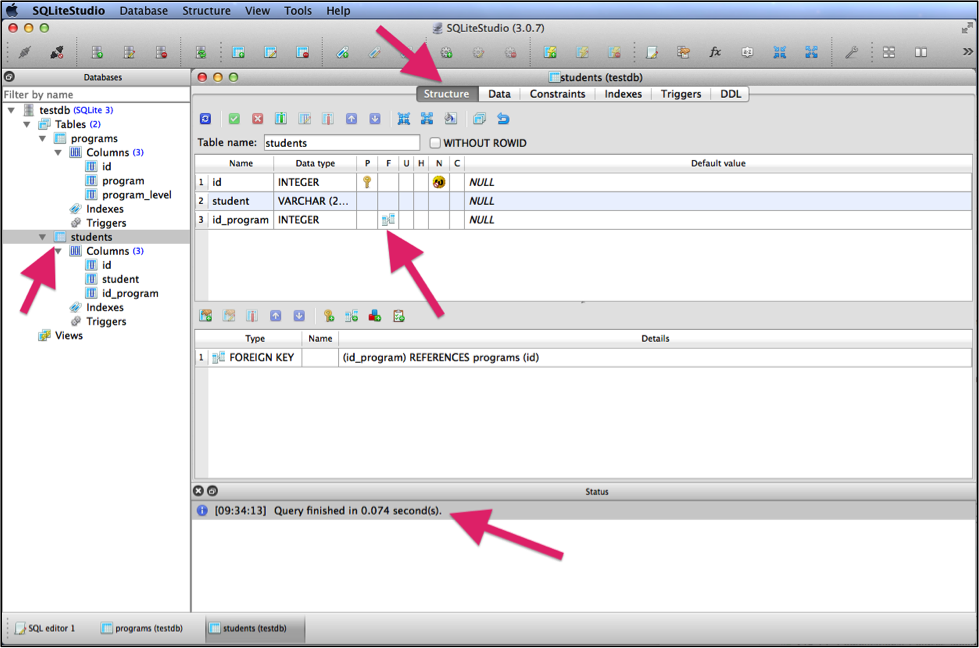
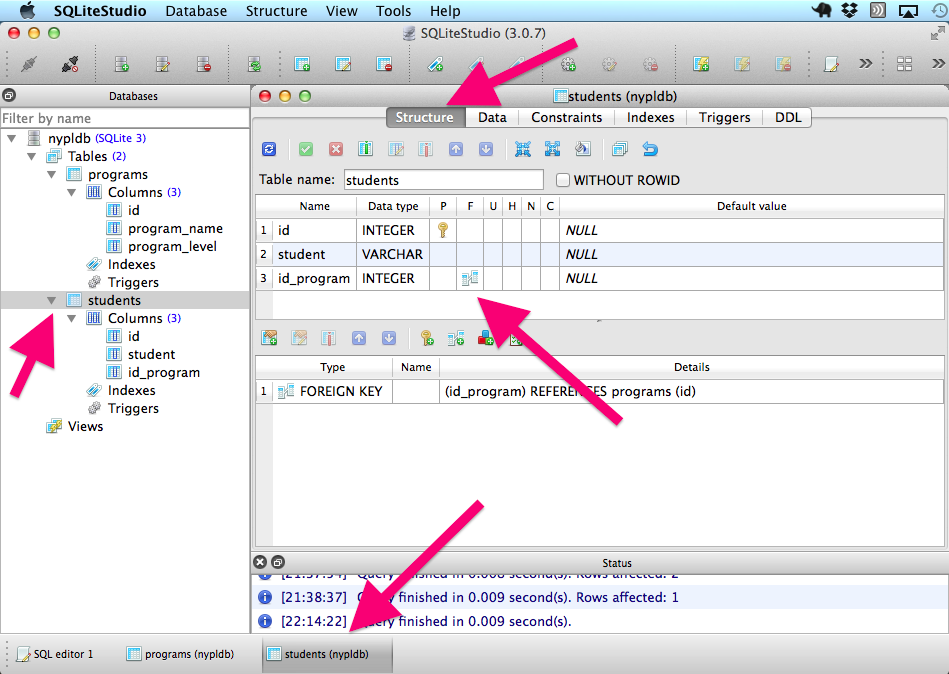
new images, cleaned up and tested sections 1-8

diff --git a/sections/0-dbintro.md b/sections/0-dbintro.md
@@ -8,12 +8,12 @@ A database is a collection of data that is structured to allow for manipulation.
 
 ###*What is SQL?*
 
-SQL (Structured Query Language) is a programming language for interacting with data in a relational database. There are different implementations of SQL—one implementation is [SQLite](https://www.sqlite.org/). Different implementations (such as [PostgreSQL](https://www.postgresql.org/) and [MySQL](https://www.mysql.com/)) have their own higher level specialized functions, but the all handle the same basic operations covered in this tutorial.
+SQL (Structured Query Language) is a programming language for interacting with data in a relational database. There are different implementations of SQL—one implementation is [SQLite](https://www.sqlite.org/). Different implementations (such as [PostgreSQL](https://www.postgresql.org/) and [MySQL](https://www.mysql.com/)) have their own higher level specialized functions, but the all handle the same basic operations covered today.
 
 We’re going to use SQLite in this session because getting set up requires less work. SQLite is a little different from other implementations of SQL because it operates on regular plain old local files and does not require a server connection, unlike PostgreSQL and MySQL. The databases you work with in SQLite exist in .db files that you can store anywhere on your computer.
 
 ###*How do I use SQL?*
 
-The database holds your data, but you need a client to see and interact with it. There are a couple options for SQLite GUI database mangers--for the first part of this session we will be suing [SQLiteStudio](http://sqlitestudio.pl/). SQLite also has a [command-line utility](http://www.sqlite.org/cli.html), which we will use in the second part of this session.
+The database holds your data, but you need a client to see and interact with it. There are a couple options for SQLite GUI database mangers--we will be using [SQLiteStudio](http://sqlitestudio.pl/). SQLite also has a [command-line utility](http://www.sqlite.org/cli.html), which we will not use today.
 
 [<<< Back](https://github.com/GCDigitalFellows/GCDRI_databases/blob/master/README.md) - [Next >>>](https://github.com/GCDigitalFellows/GCDRI_databases/blob/master/sections/1-builddb.md)

diff --git a/sections/4-updatefield.md b/sections/4-updatefield.md
@@ -4,14 +4,16 @@
 
 You can alter tables after they've been created. The SQL syntax below adds another field to the existing table and then populates that field with data.    
 
-1. Add another field for "program_level" to the existing table:    
+1. Add another field for "program_level" to the existing table:   
+
 	```
-	--ADD ANOTHER FIELD TO THE PROGRAMS TABLE
-	ALTER TABLE programs
-	ADD program_level VARCHAR;
+	ALTER TABLE programs    --selects the "programs" table to update
+	ADD program_level VARCHAR;    --adds a "program_level" column, which is a string
 	```
 
 	If the query was successful, your database should now look like this:  
+
+	*You may need to hit the refresh button to see the changes!*
 
 	![Your database after adding the new "program_level" field](https://github.com/GCDigitalFellows/GCDRI_databases/blob/master/images/new_field.png)  
 
@@ -19,17 +21,25 @@ You can alter tables after they've been created. The SQL syntax below adds anoth
 
 2. Now, let's populate the new empty "program_level" field with some data  
 	```
-	--UPDATE THE PROGRAM_LEVEL FIELD FOR "LINGUISTICS"
-	UPDATE programs
-	SET program_level = 'Master''s'
-	WHERE program = 'Linguistics';
+	--update the "program_level" field to "Ph.D" for "Linguistics"
+
+	UPDATE programs		--select the table to update
+	SET program_level = "Ph.D."		--select the field and value to update
+	WHERE program_name = 'Linguistics';		--select the condition for updating
 	```  
 
+	####Challenge: Update the "program_level" field for "Biology" and "Anthropology".
+	_**HINT:** You can do this with one statement using `IN`_
+
+
+	####Solution:
+
 	```
-	--UPDATE THE PROGRAM_LEVEL FIELD FOR "ANTHROPOLOGY" AND "BIOLOGY"
+	--update the "program_level" field to "Master's" for "Anthropology" and "Biology"
+
 	UPDATE programs
-	SET program_level = 'Ph.D.'
-	WHERE program IN ('Anthropology', 'Biology');
+	SET program_level = "Master's"
+	WHERE program_name IN ("Anthropology", "Biology");
 	```  
 	
 [<<< Back](https://github.com/GCDigitalFellows/GCDRI_databases/blob/master/sections/3-insertdata.md) - [Next >>>](https://github.com/GCDigitalFellows/GCDRI_databases/blob/master/sections/5-foreignkeys.md)

diff --git a/sections/2-buildtable.md b/sections/2-buildtable.md
@@ -2,14 +2,6 @@
 
 #Building tables
 The next step is to create tables to hold your data. From here onwards, we are going to execute database queries using the SQL editor to practice SQL syntax.  
-
-The syntax for creating a table in SQLite is:
-
-`CREATE TABLE *table_name* ( *field_name* *data type* *constraints* )`  
-
-- The [data type](https://www.sqlite.org/datatype3.html) will affect the behavior of the data in that field. For example, whether the data itself is treated as text or a number.  
-
-- The [constraints](http://www.tutorialspoint.com/sqlite/sqlite_constraints.htm) will affect the behavior of that field. For example, a field with a `NOT NULL` constraint means that each record must have some data in this field.  
   
 
 1. Open the SQL editor.  
@@ -21,12 +13,21 @@ The syntax for creating a table in SQLite is:
 	![SQLiteStudio interface with SQL editor and databases window](https://github.com/GCDigitalFellows/GCDRI_databases/blob/master/images/sqlite_wkspace.png)  
 
 
-2. Create a table called "programs" with a field (i.e., column) for academic programs  
+2. Create a table to store data about academic programs. Name the table "programs" and give it two fields (aka, columns): one for "id", the other for "program_name".
+
+	The syntax for creating a table in SQLite is:
+
+	`CREATE TABLE table_name ( field_name data_type constraints )`  
+
+	- The [data type](https://www.sqlite.org/datatype3.html) will affect the behavior of the data in that field. For example, whether the data itself is treated as text or a number.  
+
+	- The [constraints](http://www.tutorialspoint.com/sqlite/sqlite_constraints.htm) will affect the behavior of that field. For example, a field with a `NOT NULL` constraint means that each record must have some data in this field.   
+	
 	```
 	CREATE TABLE programs  
 	(  
 	id INTEGER PRIMARY KEY AUTOINCREMENT NOT NULL,  
-	program VARCHAR  
+	program_name VARCHAR  
 	);
 	```
 

diff --git a/sections/5-foreignkeys.md b/sections/5-foreignkeys.md
@@ -6,13 +6,11 @@ At this point, we're going to create a second table called "students" to illustr
 
 1. Create a table called "students" with a field for: (1) a primary key, (2) student name, and (3) a foreign key that will reference the "programs" table  
 	```
-	--CREATE A TABLE FOR STUDENTS (PAY ATTENTION TO THE FOREIGN KEY!)
-	CREATE TABLE students
-	(
-	id INTEGER PRIMARY KEY AUTOINCREMENT NOT NULL,
-	student VARCHAR(255),
-	id_program INTEGER,
-	FOREIGN KEY (id_program) REFERENCES programs(id)
+	CREATE TABLE students (
+    	id INTEGER PRIMARY KEY,
+    	student VARCHAR,
+    	id_program INTEGER,
+    	FOREIGN KEY (id_program) REFERENCES programs(id) -- this establishes the reference!
 	);
 	```  
 
@@ -28,11 +26,15 @@ At this point, we're going to create a second table called "students" to illustr
 
 
 
-2. The last step is to add some data to the new "students" table
+2. The last step is to add some data to the new "students" table. 
+
+	*Try this on your own before looking below.*
+
+	- **Remember:** 
+		- The primary key will autopopulate.
+		- The foreign keys must be entered manually - YOU decide which program to associate with each student.
+
 	```
-	--INSERT SOME DATA INTO THE STUDENTS TABLE
-	--REMEMBER THAT THE PRIMARY KEY WILL AUTOINCREMENT
-	--FOREIGN KEYS MUST BE ENTERED MANUALLY
 	INSERT INTO students(student, id_program) VALUES
 	('Josefina', 3),
 	('Cecilia', 2),
@@ -40,6 +42,6 @@ At this point, we're going to create a second table called "students" to illustr
 	('Sarah', 1);
 	```  
 	
-###We will make use of the foreign key in the next step!  
+	_**We will make use of the foreign key in the next step!**_  
 
 [<<< Back](https://github.com/GCDigitalFellows/GCDRI_databases/blob/master/sections/4-updatefield.md) - [Next >>>](https://github.com/GCDigitalFellows/GCDRI_databases/blob/master/sections/6-commonqueries.md)  

diff --git a/sections/6-commonqueries.md b/sections/6-commonqueries.md
@@ -9,7 +9,7 @@ Each query is made up of the same basic set of clauses:
 - The `FROM` clause indicates the table that the fields belong to.  
 - The `WHERE` clause filters the results of the query.  
 
-Together, these clauses essentially create a new table based on the criteria specified in each one.  
+Together, these clauses create a new temporary table based on the criteria specified in each one.  
 
 Practice executing these queries and see what they return.  
 
@@ -36,8 +36,12 @@ Practice executing these queries and see what they return.
 	FROM students;
 	```  
 
-	###Challenge #1:  
-	####Write a query that returns 'program' and 'program level' for each record in the 'programs' table.  
+	####Challenge #1: Write a query that returns "program_name" and "program_level" for each record in the "programs" table.  
+
+
+	####Solution!
+	SELECT program_name, program_level
+	FROM programs;
 
 4. In this query, `WHERE` filters the records by their value in the "id" field:  
 	```
@@ -48,8 +52,13 @@ Practice executing these queries and see what they return.
 	WHERE id = '3';
 	```  
 
-	###Challenge #2:  
-	####Write a query that returns entire records for only Ph.D programs in the 'programs' table.    
+	####Challenge #2: Write a query that returns entire records for _**only**_ Ph.D programs in the 'programs' table.  
+
+
+	####Solution!
+	SELECT *
+	FROM programs  
+	WHERE program_level = "Ph.D.";
 
 	
 [<<< Back](https://github.com/GCDigitalFellows/GCDRI_databases/blob/master/sections/5-foreignkeys.md) - [Next >>>](https://github.com/GCDigitalFellows/GCDRI_databases/blob/master/sections/7-innerjoin.md)

diff --git a/sections/3-insertdata.md b/sections/3-insertdata.md
@@ -1,18 +1,22 @@
 [<<< Back](https://github.com/GCDigitalFellows/GCDRI_databases/blob/master/sections/2-buildtable.md) - [Next >>>](https://github.com/GCDigitalFellows/GCDRI_databases/blob/master/sections/4-updatefield.md)  
 
-#Inserting data into a SQL table
+#Inserting data into an SQL table
 
 Now that we have a table structure, we need to insert some data.  
 
-1. Insert some data into the table we just created using this syntax:  
+1. Insert "Anthropology", "Biology", and "Linguistics" into the table we just created. 
 
-	**Remember:** Highlight this code before clicking the triangle to execute!  
+	**Remember:** 
+		- Highlight this code before clicking the triangle to execute!  
+		- Comment your code with `--`
+
+	The syntax for inserting multiple records is: `INSERT INTO table_name(field_name) VALUES (record1), (record2), (record3)`
 
 	```
-	INSERT INTO programs(program) VALUES
-	(‘Anthropology’),
-	(‘Biology’),
-	(‘Linguistics’);
+	INSERT INTO programs(program_name) VALUES
+	("Anthropology"),
+	("Biology"),
+	("Linguistics");
 	```
 
 2. Click on "Data" to view the data that you just inserted into the "programs" table.  

diff --git a/sections/7-innerjoin.md b/sections/7-innerjoin.md
@@ -7,6 +7,7 @@ Each of the queries up to now has just returned data from a single table in the 
 ```
 --SHOW ALL THE RECORDS FOR STUDENT WITH THE INFORMATION ABOUT THEIR
 --RESPECTIVE PROGRAMS
+
 SELECT *
 FROM students INNER JOIN programs
 ON students.id_program = programs.id;
@@ -18,7 +19,12 @@ This query should return what you see below:
 
 This query demonstrates the power of relational databases by using the foreign key in the "students" table to coordinating data with the "programs" table.  
 
-###Challenge:  
-####Write a query that returns only the name of each student and their respective program level.  
+####Challenge: Write a query that returns only the name of each student and their respective program level.  
+
+
+####Solution!
+SELECT student, program_level
+FROM students INNER JOIN programs
+ON students.id_program = programs.id;
 	
 [<<< Back](https://github.com/GCDigitalFellows/GCDRI_databases/blob/master/sections/6-commonqueries.md) - [Next >>>](https://github.com/GCDigitalFellows/GCDRI_databases/blob/master/sections/breaktime.md)

diff --git a/sections/8-importcsv.md b/sections/8-importcsv.md
@@ -1,5 +1,6 @@
 #Import data into table
-1. Create a table with a field for each column in the csv file to import  
+1. Create a table with a field for each column in the csv file that we want to import
+
 	```
 	CREATE TABLE nypl_items (
 		id INTEGER PRIMARY KEY,
@@ -19,7 +20,9 @@
 	```
 
 
-2. Double click on the table in the databases window and click on the import icon  
+2. Double click on the table "nypl_items" in the databases window and click on the import icon  
+
+	![Importing a csv file to a new table](https://github.com/GCDigitalFellows/GCDRI_databases/blob/master/images/csv_import.png)
 
 
 3. Follow import instructions  
